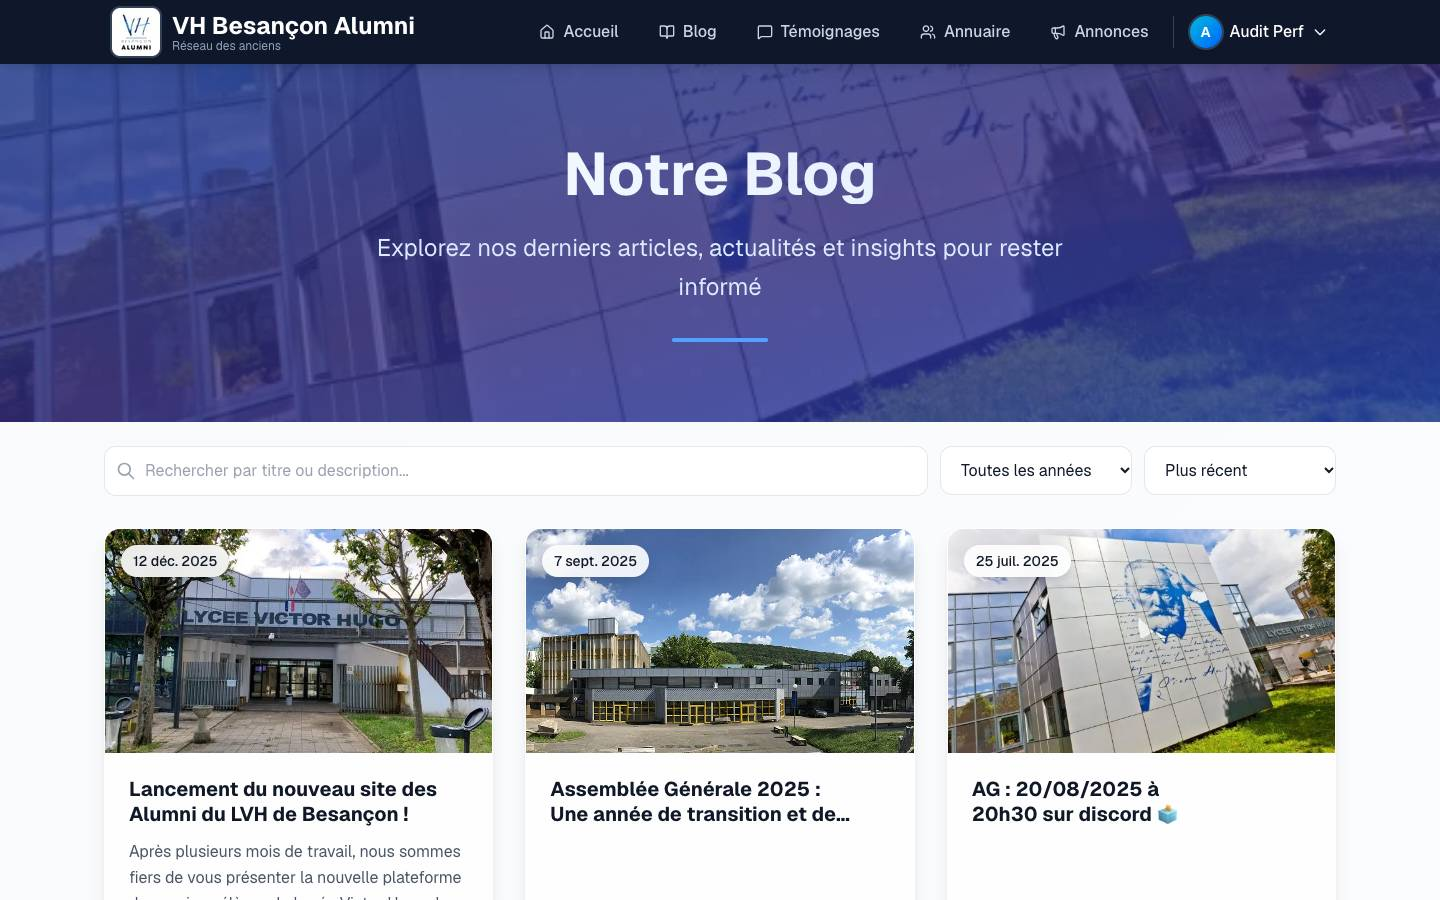
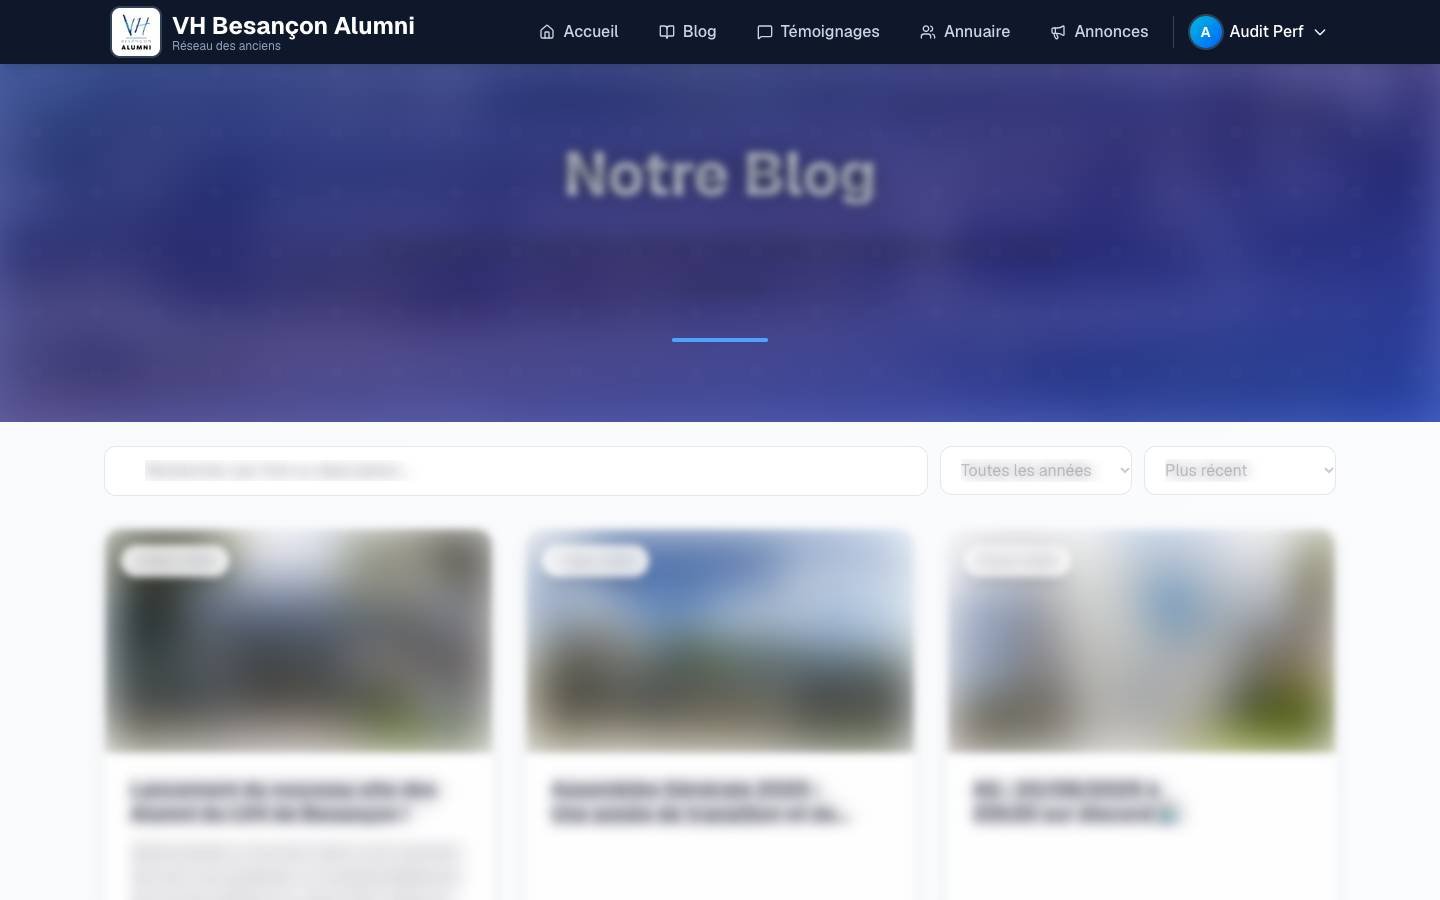
docs(report): Lighthouse final (mobile 89 → 90, ordinateur 100, accessibilité 100), captures avant/après
Captures « avant » des pages membres floutées (dépôt public), « après » sur
des membres fictifs.

diff --git a/REPORT.md b/REPORT.md
@@ -15,7 +15,7 @@ d'origine), [PARITY.md](PARITY.md) (checklist vérifiée),
 | Zéro régression fonctionnelle | 116 fonctionnalités sur 125 vérifiées ; 9 écarts signalés et justifiés (§ 6), dont 6 dépendent de services externes absents en local |
 | Comptes et mots de passe conservés | Fait : 100 comptes, 62 hash bcrypt recopiés à l'identique, vérifiés octet par octet ; rehash transparent à la connexion |
 | Build, lint, typecheck, tests | Tous au vert (§ 2) |
-| Performance | Accessibilité en hausse ; **performance mobile en baisse, à corriger** (§ 4) |
+| Performance | Mobile 89 → 90, ordinateur 99 → 100, accessibilité 93 → 100 (§ 4) |
 | Mise en production | **Pas faite** : elle demande une base et un stockage de production, et votre feu vert (§ 7) |
 
 ## 2. Vérifications
@@ -25,8 +25,8 @@ d'origine), [PARITY.md](PARITY.md) (checklist vérifiée),
 | `npm run typecheck` | 0 erreur |
 | `npm run lint` | 0 erreur, 0 avertissement |
 | `npm run build` | OK (aucun avertissement de traçage de fichiers) |
-| `npm test -- --run` (Vitest) | 20 fichiers, tous au vert |
-| `npm run test:e2e` (Playwright, build de production) | 35 scénarios, tous au vert |
+| `npm test -- --run` (Vitest) | 334 tests, tous au vert |
+| `npm run test:e2e` (Playwright, build de production) | 36 scénarios, tous au vert |
 
 **Ce que couvrent les tests**
 - **Authentification** : connexion avec un hash d'origine `$2b$10$`, rehash
@@ -63,6 +63,9 @@ d'origine), [PARITY.md](PARITY.md) (checklist vérifiée),
 | Administration qui débordait sur mobile | Défilement horizontal |
 | E-mails réellement envoyés depuis l'environnement local (identifiants Gmail dans `.env.local`) | Un test aurait écrit à de vrais membres |
 | Build qui embarquait tout le dépôt dans le code serveur | Déploiement plus lent et plus lourd |
+| Boucle de redirections pour un membre supprimé ou suspendu pendant sa session | Page inaccessible (« trop de redirections ») |
+| Configuration Sentry du navigateur plus chargée avec Turbopack (déjà le cas sur `main`) | Erreurs du navigateur jamais remontées |
+| Code d'édition et schémas Zod téléchargés par chaque visiteur | Performance mobile en baisse (81 au lieu de 89) |
 
 ## 3. Migration des données
 
@@ -100,9 +103,9 @@ une invitation », lien à usage unique valable 7 jours).
 
 ## 4. Lighthouse avant / après
 
-Mesures locales : ancien site (`main`, données Sanity) et nouveau site
-(build de production, base migrée, mêmes volumes), Lighthouse 13.5.0, mêmes
-pages, même compte membre fictif. Résultats bruts :
+Mesures locales de l'ancien site (`main`, données Sanity) et du nouveau
+(build de production, base migrée, mêmes volumes), avec Lighthouse 13.5.0,
+sur les mêmes pages et avec un compte membre. Résultats bruts :
 [docs/perf/before.json](docs/perf/before.json) et
 [docs/perf/after.json](docs/perf/after.json) ; tableau généré par
 `node tools/perf/compare.mjs`.
@@ -111,63 +114,69 @@ pages, même compte membre fictif. Résultats bruts :
 
 | Page | Performance | Accessibilité | Bonnes pratiques | SEO | LCP | CLS |
 |---|---|---|---|---|---|---|
-| Accueil (visiteur) | 94 → **81** (-13) | 95 → **100** (+5) | 96 → **100** (+4) | 92 → **92** (=) | 3.1 → **4.9** s | 0 → **0** |
-| À propos | 87 → **80** (-7) | 96 → **100** (+4) | 96 → **100** (+4) | 92 → **92** (=) | 4.0 → **5.2** s | 0 → **0** |
-| Connexion | 90 → **84** (-6) | 91 → **100** (+9) | 96 → **100** (+4) | 92 → **91** (-1) | 3.6 → **4.4** s | 0 → **0** |
-| Accueil membre | 87 → **77** (-10) | 97 → **96** (-1) | 100 → **100** (=) | 100 → **100** (=) | 3.9 → **5.8** s | 0 → **0** |
-| Annuaire | 88 → **78** (-10) | 93 → **97** (+4) | 100 → **100** (=) | 100 → **100** (=) | 3.8 → **5.3** s | 0 → **0** |
-| Fiche membre | 89 → **86** (-3) | 95 → **93** (-2) | 100 → **100** (=) | 100 → **63** (-37) | 3.8 → **4.3** s | 0 → **0** |
-| Annonces | 88 → **81** (-7) | 95 → **98** (+3) | 100 → **100** (=) | 100 → **100** (=) | 3.9 → **4.9** s | 0 → **0** |
-| Témoignages | 88 → **81** (-7) | 95 → **98** (+3) | 100 → **100** (=) | 100 → **100** (=) | 3.9 → **4.9** s | 0 → **0** |
-| Blog | 87 → **78** (-9) | 84 → **100** (+16) | 100 → **100** (=) | 100 → **100** (=) | 4.1 → **5.6** s | 0 → **0** |
-| **Moyenne** | 89 → **81** (-8) | 93 → **98** (+5) | 99 → **100** (+1) | 97 → **93** (-4) | | |
+| Accueil (visiteur) | 94 → **90** (-4) | 95 → **100** (+5) | 96 → **100** (+4) | 92 → **100** (+8) | 3.1 → **3.5** s | 0 → **0** |
+| À propos | 87 → **91** (+4) | 96 → **100** (+4) | 96 → **100** (+4) | 92 → **100** (+8) | 4.0 → **3.5** s | 0 → **0** |
+| Connexion | 90 → **91** (+1) | 91 → **100** (+9) | 96 → **100** (+4) | 92 → **100** (+8) | 3.6 → **3.4** s | 0 → **0** |
+| Accueil membre | 87 → **88** (+1) | 97 → **100** (+3) | 100 → **100** (=) | 100 → **100** (=) | 3.9 → **3.7** s | 0 → **0** |
+| Annuaire | 88 → **88** (=) | 93 → **100** (+7) | 100 → **100** (=) | 100 → **100** (=) | 3.8 → **3.7** s | 0 → **0** |
+| Fiche membre | 89 → **92** (+3) | 95 → **100** (+5) | 100 → **100** (=) | 100 → **66** (-34) | 3.8 → **3.3** s | 0 → **0** |
+| Annonces | 88 → **91** (+3) | 95 → **98** (+3) | 100 → **100** (=) | 100 → **100** (=) | 3.9 → **3.4** s | 0 → **0** |
+| Témoignages | 88 → **91** (+3) | 95 → **98** (+3) | 100 → **100** (=) | 100 → **100** (=) | 3.9 → **3.5** s | 0 → **0** |
+| Blog | 87 → **88** (+1) | 84 → **100** (+16) | 100 → **100** (=) | 100 → **100** (=) | 4.1 → **3.9** s | 0 → **0** |
+| **Moyenne** | 89 → **90** (+1) | 93 → **100** (+7) | 99 → **100** (+1) | 97 → **96** (-1) | | |
 
 **Ordinateur** (médiane de 3 passages)
 
 | Page | Performance | Accessibilité | Bonnes pratiques | SEO | LCP | CLS |
 |---|---|---|---|---|---|---|
-| Accueil (visiteur) | 99 → **99** (=) | 94 → **100** (+6) | 96 → **100** (+4) | 92 → **92** (=) | 0.9 → **0.9** s | 0 → **0** |
-| À propos | 99 → **99** (=) | 96 → **100** (+4) | 96 → **100** (+4) | 92 → **92** (=) | 0.8 → **1.0** s | 0 → **0** |
-| Connexion | 100 → **99** (-1) | 91 → **100** (+9) | 96 → **100** (+4) | 92 → **91** (-1) | 0.6 → **0.9** s | 0 → **0** |
-| Accueil membre | 99 → **82** (-17) | 97 → **96** (-1) | 100 → **100** (=) | 100 → **100** (=) | 1.0 → **1.2** s | 0 → **0.31** |
-| Annuaire | 99 → **98** (-1) | 93 → **97** (+4) | 100 → **100** (=) | 100 → **100** (=) | 0.9 → **1.1** s | 0 → **0** |
-| Fiche membre | 100 → **100** (=) | 95 → **93** (-2) | 100 → **100** (=) | 100 → **63** (-37) | 0.8 → **0.8** s | 0 → **0** |
-| Annonces | 99 → **99** (=) | 95 → **98** (+3) | 100 → **100** (=) | 100 → **100** (=) | 1.0 → **1.0** s | 0 → **0** |
-| Témoignages | 98 → **99** (+1) | 95 → **98** (+3) | 100 → **100** (=) | 100 → **100** (=) | 1.0 → **1.0** s | 0 → **0** |
-| Blog | 99 → **99** (=) | 88 → **100** (+12) | 100 → **100** (=) | 100 → **100** (=) | 0.9 → **1.0** s | 0 → **0** |
-| **Moyenne** | 99 → **97** (-2) | 94 → **98** (+4) | 99 → **100** (+1) | 97 → **93** (-4) | | |
+| Accueil (visiteur) | 99 → **100** (+1) | 94 → **100** (+6) | 96 → **100** (+4) | 92 → **100** (+8) | 0.9 → **0.7** s | 0 → **0** |
+| À propos | 99 → **100** (+1) | 96 → **100** (+4) | 96 → **100** (+4) | 92 → **100** (+8) | 0.8 → **0.8** s | 0 → **0** |
+| Connexion | 100 → **100** (=) | 91 → **100** (+9) | 96 → **100** (+4) | 92 → **100** (+8) | 0.6 → **0.8** s | 0 → **0** |
+| Accueil membre | 99 → **100** (+1) | 97 → **100** (+3) | 100 → **100** (=) | 100 → **100** (=) | 1.0 → **0.8** s | 0 → **0** |
+| Annuaire | 99 → **99** (=) | 93 → **100** (+7) | 100 → **100** (=) | 100 → **100** (=) | 0.9 → **0.8** s | 0 → **0** |
+| Fiche membre | 100 → **100** (=) | 95 → **100** (+5) | 100 → **100** (=) | 100 → **66** (-34) | 0.8 → **0.7** s | 0 → **0** |
+| Annonces | 99 → **100** (+1) | 95 → **98** (+3) | 100 → **100** (=) | 100 → **100** (=) | 1.0 → **0.8** s | 0 → **0** |
+| Témoignages | 98 → **99** (+1) | 95 → **98** (+3) | 100 → **100** (=) | 100 → **100** (=) | 1.0 → **0.8** s | 0 → **0** |
+| Blog | 99 → **99** (=) | 88 → **100** (+12) | 100 → **100** (=) | 100 → **100** (=) | 0.9 → **0.9** s | 0 → **0** |
+| **Moyenne** | 99 → **100** (+1) | 94 → **100** (+6) | 99 → **100** (+1) | 97 → **96** (-1) | | |
 
 
-**Lecture honnête**
-- **En hausse** : accessibilité (93 → 98 en moyenne), bonnes pratiques
-  (→ 100). Sur ordinateur, la performance reste à 97-100, sauf pour l'accueil
-  membre.
-- **À corriger avant la bascule** :
-  - **Performance mobile en baisse** (89 → 81 de moyenne). Le rendu réel est
-    rapide (≈ 0,5 s sans bridage), mais la simulation 4G pénalise le poids des
-    ressources critiques : polices 274 Ko au lieu de 51 Ko (Fraunces avec les
-    axes `opsz`, `SOFT`, `WONK` en deux sous-ensembles), JavaScript 316 Ko au
-    lieu de 200 Ko (dont environ 120 Ko inutilisés à l'ouverture : Zod côté
-    client, Sentry Replay). Pistes : Fraunces limitée au sous-ensemble latin
-    sans axes décoratifs, Sentry Replay chargé à la demande, Zod hors du
-    bundle des pages publiques, `priority` sur l'image principale.
-  - **CLS 0,31 sur l'accueil membre** (ordinateur) : le squelette de
-    chargement, plus court que la page, fait sauter le pied de page. Piste :
-    donner au squelette la hauteur de l'écran.
-  - **robots.txt** absent (déjà le cas avant) : ajouter `app/robots.ts` et
-    un plan du site pour les pages publiques.
+**Lecture**
+- **Accessibilité 93 → 100**, bonnes pratiques et SEO à 100 sur toutes les
+  pages publiques (`robots.txt` et plan du site ajoutés).
+- **Performance** : ordinateur 99 → 100, mobile 89 → 90 en moyenne ; huit
+  pages sur neuf sont égales ou meilleures. Seul l'accueil visiteur sur
+  mobile est légèrement en dessous (94 → 90), à cause de la photo
+  principale, plus grande, et des polices de la nouvelle identité.
+- **Ce qui a été corrigé pour y arriver** (premières mesures : mobile 81) :
+  - code d'édition et schémas chargés à la demande ;
+  - Fraunces limitée au sous-ensemble latin et aux axes utiles (220 → 65 Ko) ;
+  - plugin Sentry seulement avec un DSN ;
+  - image principale en priorité haute ;
+  - plus de squelette de chargement sur les pages membres (DOM doublé).
 - **Voulu** : la fiche d'un membre est marquée `noindex` (données
-  personnelles), d'où son score SEO de 63. Elle reste de toute façon
+  personnelles), d'où son score SEO de 66. Elle reste de toute façon
   réservée aux membres connectés.
-
 
 ## 5. Captures d'écran
 
-Captures « avant » des pages publiques dans
-[docs/screenshots/before](docs/screenshots/before). Les captures « avant »
-floutées des pages membres et toutes les captures « après » restent **à
-produire** (`tools/perf/screenshots.mjs --blur-members` pour l'ancien site,
-base de test fictive pour le nouveau).
+Le dépôt étant public, aucune donnée de membre n'y figure :
+- **avant, pages membres** : vraies données Sanity, **textes et photos
+  floutés** (seule la mise en page reste visible) ;
+- **après, pages membres** : base de test peuplée de **membres fictifs** ;
+- **pages publiques** : contenus déjà publics, sans flou.
+
+| Page | Avant (mobile) | Après (mobile) | Ordinateur |
+|---|---|---|---|
+| Accueil visiteur | ![avant](docs/screenshots/before/accueil-visiteur-mobile.jpg) | ![après](docs/screenshots/after/accueil-visiteur-mobile.jpg) | [avant](docs/screenshots/before/accueil-visiteur-desktop.jpg) · [après](docs/screenshots/after/accueil-visiteur-desktop.jpg) |
+| À propos | ![avant](docs/screenshots/before/a-propos-mobile.jpg) | ![après](docs/screenshots/after/a-propos-mobile.jpg) | [avant](docs/screenshots/before/a-propos-desktop.jpg) · [après](docs/screenshots/after/a-propos-desktop.jpg) |
+| Connexion | ![avant](docs/screenshots/before/connexion-mobile.jpg) | ![après](docs/screenshots/after/connexion-mobile.jpg) | [avant](docs/screenshots/before/connexion-desktop.jpg) · [après](docs/screenshots/after/connexion-desktop.jpg) |
+| Accueil membre | ![avant](docs/screenshots/before/accueil-membre-mobile.jpg) | ![après](docs/screenshots/after/accueil-membre-mobile.jpg) | [avant](docs/screenshots/before/accueil-membre-desktop.jpg) · [après](docs/screenshots/after/accueil-membre-desktop.jpg) |
+| Annuaire | ![avant](docs/screenshots/before/annuaire-mobile.jpg) | ![après](docs/screenshots/after/annuaire-mobile.jpg) | [avant](docs/screenshots/before/annuaire-desktop.jpg) · [après](docs/screenshots/after/annuaire-desktop.jpg) |
+| Fiche membre | ![avant](docs/screenshots/before/fiche-membre-mobile.jpg) | ![après](docs/screenshots/after/fiche-membre-mobile.jpg) | [avant](docs/screenshots/before/fiche-membre-desktop.jpg) · [après](docs/screenshots/after/fiche-membre-desktop.jpg) |
+| Annonces | ![avant](docs/screenshots/before/annonces-mobile.jpg) | ![après](docs/screenshots/after/annonces-mobile.jpg) | [avant](docs/screenshots/before/annonces-desktop.jpg) · [après](docs/screenshots/after/annonces-desktop.jpg) |
+| Témoignages | ![avant](docs/screenshots/before/temoignages-mobile.jpg) | ![après](docs/screenshots/after/temoignages-mobile.jpg) | [avant](docs/screenshots/before/temoignages-desktop.jpg) · [après](docs/screenshots/after/temoignages-desktop.jpg) |
+| Blog | ![avant](docs/screenshots/before/blog-mobile.jpg) | ![après](docs/screenshots/after/blog-mobile.jpg) | [avant](docs/screenshots/before/blog-desktop.jpg) · [après](docs/screenshots/after/blog-desktop.jpg) |
 
 ## 6. Parité : écarts justifiés
 
